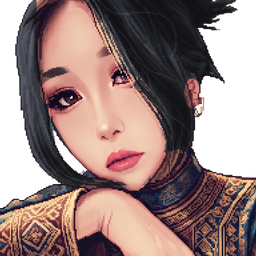
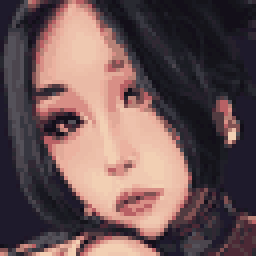
v0.57: финальный босс главы — призрак главы стражи (черновики по новому лору), портрет Алкимы в рамке, реплики не проглатываются кликами, прыжок с захлёстом целится в ближайшего врага
Claude-Session: https://claude.ai/code/session_01NZaKJV7VXAQHZfGwN3MbH5

diff --git a/src/story/dialogues.js b/src/story/dialogues.js
@@ -51,7 +51,7 @@ export const DIALOGUES = {
     { who: 'narrator', text: '[черновик] Атаман мародёров поднимается с нар и тянется к мечу.' },
   ],
 
-  // обрушенный балкон: командир стражи — последний бой первого этажа
+  // обрушенный балкон: сотник стражи — последний бой первого этажа
   commander_meet: [
     { who: 'narrator', text: '[черновик] На краю обрушенного балкона стоит скелет в позолоченных латах. Он поднимает щит.' },
   ],
@@ -94,7 +94,7 @@ export const DIALOGUES = {
   ],
   // у двери на вершину башни — конец главы 1 (черновик)
   tower_end: [
-    { who: 'knight', text: '[черновик] Наверху — тот самый скелет-колдун, о котором говорила Лика. Ну что ж.' },
+    { who: 'knight', text: '[черновик] Покои принцессы. Где-то за этой дверью — тот самый призрак, о котором говорила Лика.' },
   ],
   // перед боем в Зале стражи (черновик)
   keyguard_meet: [
@@ -175,16 +175,16 @@ export const SHOPS = {
       ] },
       { topic: 'Как выбраться из замка?', lines: [
         { mood: 'sly', text: 'Как я сюда добралась — секрет. Но простым путём отсюда не выбраться.' },
-        { mood: 'serious', text: 'Как выбраться тебе — не знаю. Знаю только, что в башне этого замка, кажется, пробудился скелет-колдун.' },
-        { mood: 'serious', text: 'Когда-то он был придворным магом здешнего короля — двести лет назад.' },
+        { mood: 'serious', text: '[черновик] Как выбраться тебе — не знаю. Знаю только, что в башне этого замка бродит призрак.' },
+        { mood: 'serious', text: '[черновик] Говорят, при жизни он был главой королевской стражи. Не уберёг принцессу — и двести лет стережёт её покои в башне. Нападает на всякого, кто туда сунется.' },
         { mood: 'sly', text: 'Это я слышала от рыцаря, который здесь бывал. Только выглядел он побогаче, и доспехи у него сияли поярче твоих...' },
         { mood: 'worried', text: '[черновик] Ой. Прости, я не имела в виду, что ты плохо выглядишь! Просто доспехи у тебя... повидавшие. Это даже солидно.' },
       ] },
-      // смысл владельца: если тот рыцарь победил колдуна и ушёл — Найт тоже сможет спокойно покинуть замок;
+      // смысл владельца: если тот рыцарь одолел хозяина башни (теперь — призрак главы стражи, v0.57) и ушёл — Найт тоже сможет спокойно покинуть замок;
       // Лика-то уйдёт когда угодно, а Найт — нет; извиняется: не хвастается, просто так вышло
       { topic: 'Что стало с тем рыцарем?', lines: [
-        { mood: 'serious', text: 'Вероятно, он уже ушёл. Или погиб от рук этого мага.' },
-        { mood: 'serious', text: '[черновик] Если он победил колдуна и ушёл — значит, и ты сможешь спокойно покинуть замок. А если погиб… тогда следующий на очереди, видимо, ты.' },
+        { mood: 'serious', text: '[черновик] Вероятно, он уже ушёл. Или погиб от руки этого призрака.' },
+        { mood: 'serious', text: '[черновик] Если он одолел призрака и ушёл — значит, и ты сможешь спокойно покинуть замок. А если погиб… тогда следующий на очереди, видимо, ты.' },
         { mood: 'sly', text: '[черновик] Я-то отсюда уйду, когда захочу. А вот ты — нет.' },
         { mood: 'worried', text: '[черновик] Ой. Прости, я не хвастаюсь. Просто… так вышло.' },
       ] },
@@ -197,7 +197,7 @@ export const SHOPS = {
       // появляется, когда у Найта ключ от башни (сундук в Зале стражи открыт)
       { topic: 'У меня ключ от башни', need: 'chest_guardhall_key', lines: [
         { knight: true, text: '[черновик] Я нашёл ключ от башни.' },
-        { mood: 'worried', text: '[черновик] Значит, ты всё-таки пойдёшь к колдуну.' },
+        { mood: 'worried', text: '[черновик] Значит, ты всё-таки пойдёшь в башню. К призраку.' },
         { mood: 'serious', text: '[черновик] Запасись зельями. Я бы на твоём месте взяла всё, что есть на прилавке. Не потому, что продаю. Ну… не только поэтому.' },
       ] },
       { topic: 'Скажи, как ты сюда попала', lines: [

diff --git a/src/config.js b/src/config.js
@@ -1,7 +1,7 @@
 // Все числа, которые влияют на ощущение боя, собраны здесь.
 // Время — в секундах, расстояния — в пикселях игрового экрана (320×180).
 
-export const VERSION = 'v0.56';
+export const VERSION = 'v0.57';
 
 export const CONFIG = {
   width: 320,
@@ -202,10 +202,10 @@ export const ENEMY_TYPES = {
     guardChance: 0.5, reaction: 0.1, noLowGuard: true,
     colors: { armor: '#8a6a48', armorDark: '#5e4630', tabard: '#6b4532', helm: '#c49a76', visor: '#14101e', blade: '#c9d2dc', hilt: '#7a5a3a', boots: '#3b2a1e', bandana: '#2e3b4a', mask: '#5e4630' },
   },
-  // скелет — командир стражи: хороший полуторный меч и щит, сражается на обрушенном балконе.
+  // скелет — сотник стражи (до v0.57 — «командир»): хороший полуторный меч и щит, сражается на обрушенном балконе.
   // Щит держит верх и середину; пробивают низом, захлёстом, контратакой после идеальной серии.
   commander: {
-    kind: 'melee', name: 'Скелет — командир стражи', shortName: 'Командир стражи', hp: 12, damage: 1, aggro: 160, reach: 34, speed: 46, lunge: 6, weapon: 19,
+    kind: 'melee', name: 'Скелет — сотник стражи', shortName: 'Сотник стражи', hp: 12, damage: 1, aggro: 160, reach: 34, speed: 46, lunge: 6, weapon: 19,
     skull: true, plate: true, shield: true, noRise: true,  // стоит на краю балкона — не встаёт из костей
     windup: 0.6, comboWindup: 0.42, gap: 0.08, recover: 0.9, wait: [0.6, 1.0],
     combos: [['high', 'mid'], ['diagDown'], ['mid', 'low', 'high'], ['heavyHigh'], ['thrust', 'diagUp'], ['low', 'low', 'high']],
@@ -494,8 +494,8 @@ export const ROOMS = {
       { x: 270, story: 'ataman', before: 'captain_meet', enemies: [{ type: 'captain', dx: 60, z: 22 }, { type: 'merc', dx: 110, z: 36 }] },
     ],
   },
-  // лестница башни: наверх — к магу
-  // за Галереей: коридор с мародёрами → столовая (чаша, лестница на второй этаж) → обрушенный балкон (тупик, командир стражи)
+  // лестница башни: наверх — покои принцессы, там призрак главы стражи
+  // за Галереей: коридор с мародёрами → столовая (чаша, лестница на второй этаж) → обрушенный балкон (тупик, сотник стражи)
   corridor: {
     name: 'Коридор', length: 900, torches: [120, 330, 540, 760],
     edges: { left: { to: 'gallery', x: 1150, name: 'Галерея' }, right: { to: 'dining', x: 30, name: 'Столовая' } },
@@ -702,17 +702,17 @@ export const ROOMS = {
       { type: 'sigil', x: 150, y: 44 }, { type: 'sigil', x: 52, y: 54 },
       { type: 'doorglow', x: 272 }, { type: 'chains', x: 110, y: 44 },
     ],
-    // последний отдых перед колдуном — сохраниться у его двери
+    // последний отдых перед боссом — сохраниться у двери покоев
     props: [{ type: 'bench', x: 210, z: 2, rest: { seat: 4, name: 'на каменной скамье', face: 1 } }],
     doors: [
       { id: 'out', x: 52, kind: 'iron', to: 'gallery', toDoor: 'tower', name: 'Галерея' },
-      // за дверью — маг (финальный босс, решение владельца: пока не делаем) — здесь конец главы 1
-      { id: 'up', x: 272, kind: 'wood', name: 'Вершина башни', finish: true, finishTalk: 'tower_end',
-        finishTitle: 'Конец главы 1 (черновик)', finishText: 'За дверью — вершина башни и скелет-колдун. Его сделаем дальше.' },
+      // за дверью — покои принцессы и призрак главы королевской стражи (финальный босс главы 1, решение владельца v0.57; маг — позже)
+      { id: 'up', x: 272, kind: 'wood', name: 'Покои принцессы', finish: true, finishTalk: 'tower_end',
+        finishTitle: 'Конец главы 1 (черновик)', finishText: 'За дверью — покои принцессы и призрак главы стражи. Его сделаем дальше.' },
     ],
   },
   mage: {
-    name: 'Вершина башни', length: 480, columns: false, torches: [100, 240, 380], magic: true,
+    name: 'Покои принцессы', length: 480, columns: false, torches: [100, 240, 380], magic: true,
     doors: [{ id: 'in', x: 56, kind: 'wood', to: 'tower', toDoor: 'up', name: 'Лестница башни', oneWay: true }],  // маг — потом; сюда пока не попасть
   },
 };

diff --git a/src/main.js b/src/main.js
@@ -1605,9 +1605,10 @@ function updateCharge() {
   }
   if (heldFor < WEAPONS.rapier.chargeTime) return;
   game.charge = null;
-  const cur = game.current?.alive ? game.current : null;
-  const target = cur && Math.abs(cur.x - p.x) < 70 && Math.sign(cur.x - p.x) === p.facing ? cur.x : p.x + p.facing * 44;
-  if (!p.requestVault(target)) {
+  // цель — ближайший враг впереди на линии рыцаря; нет такого — прыжок вперёд без разворота
+  const ahead = game.enemies.filter(e => e.alive && near(p, e) && (e.x - p.x) * p.facing > 0 && Math.abs(e.x - p.x) < 90);
+  const cur = ahead.sort((a, b) => Math.abs(a.x - p.x) - Math.abs(b.x - p.x))[0];
+  if (!p.requestVault(cur ? cur.x : p.x + p.facing * 44, !!cur)) {
     callout('Прыжок не готов', 'muted');
     p.requestAttack('up', false);
   }
@@ -2087,6 +2088,8 @@ const FACES = {
     .map(m => [m, m === 'default' ? 'assets/portraits/lika.png' : `assets/portraits/lika-${m}.png`])),
 };
 for (const set of Object.values(FACES)) for (const src of Object.values(set)) new Image().src = src;  // загрузить заранее
+// портреты-крупные планы (обрезаны краем исходной картинки) — в рамке со своим фоном
+const FRAMED = new Set(['trainer']);
 
 const PORTRAITS = {
   knight: { colors: KNIGHT_COLORS, plume: true },
@@ -2124,6 +2127,7 @@ function showLine() {
   ui.talkName.textContent = who.name;
   const face = FACES[who.portrait];
   ui.talkFace.hidden = !face;
+  ui.talkFace.classList.toggle('framed', FRAMED.has(who.portrait));
   if (face) {
     const src = face[line.mood] ?? face.default;
     if (!ui.talkFace.src.endsWith(src)) ui.talkFace.src = src;
@@ -2136,6 +2140,7 @@ function showLine() {
     drawFigure(portraitCtx, { x: 7, ground: 40, facing: 1, pose: POSES.idle, bladeHidden: true, ...PORTRAITS[who.portrait] });
   }
   game.talkShown = 0;
+  game.lineAt = performance.now();
   ui.talkText.textContent = '';
   ui.talkChoices.innerHTML = '';
   ui.talkNext.hidden = !!line.choices;
@@ -2160,9 +2165,13 @@ function tickTalk(dt) {
   }
 }
 
+// новая реплика не пролистывается сразу: клики, которыми только что били, не съедают текст
+const TALK_GUARD = 350;
+
 function advanceTalk() {
   const line = game.talk?.current;
   if (!line) return;
+  if (performance.now() - (game.lineAt ?? 0) < TALK_GUARD) return;
   if (line.choices) return;
   if (line.text && game.talkShown < line.text.length) {
     game.talkShown = line.text.length;
@@ -2176,6 +2185,7 @@ function advanceTalk() {
 function chooseTalk(i) {
   const line = game.talk?.current;
   if (!line?.choices?.[i]) return;
+  if (performance.now() - (game.lineAt ?? 0) < TALK_GUARD) return;
   game.talk.choose(i);
   showLine();
 }

diff --git a/style.css b/style.css
@@ -160,6 +160,7 @@ kbd {
 /* портрет без фона: вырезанный персонаж стоит прямо в окне диалога */
 .talk-face { width: 19cqw; height: 19cqw; flex: none; object-fit: contain; margin: -6cqw 0 -1.6cqw -1cqw; align-self: flex-end; filter: drop-shadow(0 0.4cqw 0 rgba(0,0,0,0.5)); }
 .talk-face[hidden] { display: none; }
+.talk-face.framed { width: 15cqw; height: 15cqw; margin: 0 0.4cqw 0 0; align-self: center; background: #1e1a2b; border: 0.3cqw solid var(--line); image-rendering: pixelated; filter: none; }
 .talk-body { display: grid; gap: 0.8cqw; min-width: 0; flex: 1; }
 .talk-name { font-family: var(--pixel); font-size: 2.2cqw; color: var(--gold); }
 .talk-text { margin: 0; font-size: 2.3cqw; line-height: 1.45; color: var(--fg); min-height: 3.3cqw; }
@@ -237,6 +238,7 @@ img.shop-portrait { image-rendering: auto; object-fit: contain; background: none
 .shop-menu button.sel { border-color: var(--gold); color: var(--gold); }
 /* на титульном экране HUD не нужен */
 #game-box:has(.overlay.title:not([hidden])) .hud { visibility: hidden; }
+#game-box:has(.talk:not([hidden])) .hint { visibility: hidden; }  /* подсказка не просвечивает сквозь окно разговора */
 
 /* карта открыта — HUD поверх пергамента не нужен */
 .mapping .hud { visibility: hidden; }

diff --git a/src/player.js b/src/player.js
@@ -154,11 +154,12 @@ export class Player {
   }
 
   // Рапира: прыжок через врага (на targetX) и захлёст сзади. false — ещё перезаряжается.
-  requestVault(targetX) {
+  requestVault(targetX, turn = true) {
     if (this.weapon !== 'rapier' || this.clock < this.vaultReadyAt || this.state !== 'ready') return false;
     this.startAttack('vaultFlick');
     this.atk.from = this.x;
     this.atk.to = targetX + this.facing * 22;
+    this.atk.turn = turn;
     this.vaultReadyAt = this.clock + this.arms.vaultCooldown;
     return true;
   }
@@ -271,7 +272,7 @@ export class Player {
           } else if (!a.turned) {
             a.turned = true;
             this.airY = 0;
-            this.facing = -this.facing;
+            if (a.turn) this.facing = -this.facing;
           }
         }
         if (t < a.windup) {

diff --git a/src/story/bestiary.js b/src/story/bestiary.js
@@ -70,6 +70,6 @@ export const BESTIARY = {
   commander: {
     how: 'Хороший полуторный меч и щит. Щит держит верх и середину; диагонали и тяжёлый удар сверху сбивают блок.',
     win: 'Низом, захлёстом рапиры или контратакой после идеальной серии.',
-    lore: '[черновик] Командир стражи. Охраняет балкон, с которого некуда идти.',
+    lore: '[черновик] Сотник королевской стражи. Охраняет балкон, с которого некуда идти. Его начальник, говорят, до сих пор бродит по башне.',
   },
 };

diff --git a/docs/story.md b/docs/story.md
@@ -30,7 +30,7 @@
 - Странствующая торговка и коллекционер: собирает интересные артефакты в заброшенных местах. Не мародёр — не обирает павших и не расхищает гробниц, собирает то, что никто не удосужился поискать.
 - Характер: шутливая, с первого взгляда кажется наглой или несерьёзной; яркая, эмоциональная, ехидная, в глазах хитрость и сарказм. Намерения не злые: часто извиняется, если шутка вышла обидной.
 - Как попала в замок — секрет: контракт с тем, кто дал ей этот способ.
-- Знает: замок пуст больше 200 лет; рядом деревушка; в башне пробудился скелет-колдун — придворный маг короля 200 лет назад (слышала от рыцаря «побогаче, в сияющих доспехах» — ушёл или погиб).
+- Знает: замок пуст больше 200 лет; рядом деревушка; в башне бродит призрак главы королевской стражи (v0.57; раньше — скелет-колдун) (слышала от рыцаря «побогаче, в сияющих доспехах» — ушёл или погиб).
 
 ### Лика — торговка
 - Невысокая молодая девушка, азиатка. По портрету владельца: длинные чёрные волосы ниже плеч, чёлка прядями падает на глаза, хитрая улыбка, оливковый плащ с высоким воротом на пуговицах. (Первоначально — каре и тёмный плащ; владельцу больше понравился портрет.)
@@ -39,7 +39,9 @@
 ## Глава 1 — замок
 
 - Три этажа. Ключ от башни — не раньше третьего этажа. Выше третьего проход завален камнями.
-- С третьего этажа — дыра вниз (быстрый спуск). Внизу — дверь в башню, в башне — маг: скелет-колдун, придворный маг короля 200 лет назад (финальный босс главы).
+- С третьего этажа — дыра вниз (быстрый спуск). Внизу — дверь в башню, наверху башни — **покои принцессы**.
+- **Финальный босс главы — призрак главы королевской стражи** (решение владельца, v0.57). При жизни он должен был защитить принцессу — и не сумел. Двести лет его призрак бродит по замку и стережёт её покои в башне, нападает на всякого, кто посмеет нарушить их покой. Слухи о нём ходят по замку (Лика, осмотр). Маг — позже, не в главе 1.
+- Владелец хочет **больше Темницу, больше комнат, вещей, возможно оружия и брони** — глава 1 растёт.
 - Первый этаж заканчивается обрушенным балконом-тупиком с видом на долину и деревню (туда — во второй локации).
 
 ## Каркас главы 1 — заполни (v0.56)
@@ -54,8 +56,8 @@
 
 ### Сначала ответь на вопросы (без них сцены не написать)
 1. Кто Найт и зачем отмечает порталы? Что он хочет лично?
-2. Где портал этого замка? (Логично: в башне, его держит маг — тогда цель главы ясна с первой сцены.)
-3. Чего хочет маг-скелет и при чём тут портал?
+2. Где портал этого замка? (Логично: в покоях принцессы — его стережёт призрак, тогда цель главы ясна с первой сцены.)
+3. Призрак: что стало с принцессой? Почему он не уберёг её? Что он хочет (покой, прощение, найти её)? При чём тут портал?
 4. Что ищет Алкима в замке? Встретимся ли с ней в главе 1 ещё раз (например, у башни)?
 5. Илиа: почему он здесь, почему бежит после поражения, вернётся ли в главе 1?
 6. Тон: мрачный, сказочный, ироничный — или смесь (например, мрачный мир + ирония Лики)?
@@ -71,18 +73,18 @@
 | 2 | Выход из камеры (0:30) | Алкима, Найт | Знакомы ли они, зачем она тут, предложение размяться | 5–7 | `trainer_meet` |
 | 3 | Обучение (1:00–4:00) | Алкима | 7 шагов — **механику не трогать**, можно переписать её голосом | по 1 на шаг | `src/tutorial.js` |
 | 4 | Конец обучения / пропуск | Алкима | Уходит по своим делам, намёк на её цель | 2–3 | `trainer_done`, `trainer_skip` |
-| 5 | Лавка Лики, первый визит (≈ 6:00) | Лика | Приветствие; темы — лор замка, маг, прежний рыцарь | 1 + темы по 2–4 | `SHOPS.lika` |
+| 5 | Лавка Лики, первый визит (≈ 6:00) | Лика | Приветствие; темы — лор замка, слухи о призраке, прежний рыцарь | 1 + темы по 2–4 | `SHOPS.lika` |
 | 6 | Илиа замечает Найта (≈ 8:00) | Илиа | Принимает за монстра — коротко, сразу бой | 1–3 | нет — новая `ilia_meet` |
 | 7 | Илиа повержен | Илиа, Найт | Почему уходит, крючок на возвращение | 3–4 | `ilia_defeat` |
 | 8 | Казарма, атаман (≈ 11:00) | Атаман | Мародёры — кто они тут | 1–2 | `captain_meet` |
 | 9 | Балкон, командир (≈ 13:00) | Командир | Стража служит до сих пор? | 1–2 | `commander_meet` |
 | 10 | Балкон после боя | Найт | Вид на деревню (крючок на главу 2), путь наверх | 2–3 | `balcony_after` |
-| 11 | Этаж 2 (14:00–19:00) | осмотр по E | Обрывки истории замка и мага: книга, портреты, алтарь | по 1–2, необязательно | `look_*` |
+| 11 | Этаж 2 (14:00–19:00) | осмотр по E | Обрывки истории замка, принцессы и стражи: книга, портреты, алтарь | по 1–2, необязательно | `look_*` |
 | 12 | Этаж 3, Зал стражи (≈ 21:00) | Страж | Ключ от башни охраняют — кто и зачем | 1–2 | `keyguard_meet` |
-| 13 | Дверь на вершину башни (≈ 23:00) | Найт | Пауза перед боссом | 1 | `tower_end` |
-| 14 | Маг перед боем | Маг, Найт | Кто он, чего хочет, связь с порталом | 3–5 | нет — `mage_meet` |
-| 15 | Маг повержен, финал главы (≈ 25:00) | Маг / Найт | Портал отмечен, ответ на вопрос 2–3, крючок на главу 2 | 5–8 | нет — `chapter_end` |
-| — | Лика, новые темы после событий | Лика | Реакция на Илиа, ключ, мага | по 2–4, необязательно | частично есть |
+| 13 | Дверь в покои принцессы (≈ 23:00) | Найт | Пауза перед боссом | 1 | `tower_end` |
+| 14 | Призрак перед боем | Призрак, Найт | Кто он, кого стережёт, связь с порталом | 3–5 | нет — `ghost_meet` |
+| 15 | Призрак повержен, финал главы (≈ 25:00) | Призрак / Найт | Портал отмечен, ответ на вопрос 2–3, крючок на главу 2 | 5–8 | нет — `chapter_end` |
+| — | Лика, новые темы после событий | Лика | Реакция на Илиа, ключ, призрака | по 2–4, необязательно | частично есть |
 
 Сюжетных реплик (без Лики и осмотра) получается ≈ 40–55 — это и есть ≈ 3–4 минуты.
 

diff --git a/docs/owner-todo.md b/docs/owner-todo.md
@@ -6,20 +6,20 @@
 
 Графику рисуем, когда механика зафиксирована. Не хватает:
 
-1. **Маг — финальный бой главы.** Самая большая дыра: у главы нет конца. Нужно от тебя: как дерётся (магия по высотам? призывает скелетов? фазы?) — хватит 3–5 строк идей, остальное предложу.
+1. **Призрак главы стражи — финальный бой главы** (твоё решение v0.57, маг — позже). У главы пока нет конца. Моё предложение — в ответе в чате; скажи, что оставить.
 2. **Сложность** — решение ниже, в разделе «Сложность».
 3. **Покои на втором этаже** — запертая дверь без содержимого: босс, ключ, тайник — или убрать.
 4. **Лика на 2–3 этажах, Чаша и Золотой череп** — нужны ли для прохода (вопросы 4–5 внизу).
 5. **Список врагов — заморозить.** Сейчас 15 видов. Каждый вид — свой лист спрайтов 32×32 (стойка, шаг, замахи на трёх высотах, удар, оглушение, смерть — ≈ 10–15 кадров). Мой совет: на главу 1 оставить 8–10, остальных — в следующие локации.
 6. **Открытые вопросы в `docs/design.md`** (финты, выносливость, третье оружие, рогалик) — ответить «да» или «нет, не в этой игре». Каждое «да» добавляет анимации.
-7. **Длина игры.** В `docs/design.md` записано: вся игра — 30–60 минут, 4–5 локаций, то есть ≈ 10 минут на локацию. Глава 1 уже ≈ 20–30 минут без мага и сюжета. Нужно выбрать: игра длиннее (≈ 2 часа) или глава 1 короче. Мой совет — оставить главу ≈ 25 минут и к Новому году целиться в **главу 1 с графикой**, а не во все локации.
+7. **Длина игры.** В `docs/design.md` записано: вся игра — 30–60 минут, 4–5 локаций, то есть ≈ 10 минут на локацию. Глава 1 уже ≈ 20–30 минут без босса и сюжета. Ты решил делать её **больше** (Темница, комнаты, вещи, оружие, броня) — значит, игра длиннее 30–60 минут. Поправлю цифру в дизайне, когда скажешь, сколько глав. Совет прежний: к Новому году целиться в **главу 1 с графикой**.
 
 Проверить время прохождения: на экране «Конец главы» показано время в игре — пройди с нуля, как новичок, и пришли цифру.
 
 ## Тексты
 
 - **Разговоры Лики** (`src/story/dialogues.js`, `SHOPS.lika.talk`). Большинство — твои, но часть строк — мои черновики (`[черновик]`). Перечитать особенно:
-  - «Что стало с тем рыцарем?» — переписано по твоему смыслу (v0.32): если тот рыцарь победил колдуна и ушёл — Найт тоже сможет уйти; «я-то уйду, а ты — нет», извиняется: не хвастается, так вышло.
+  - «Что стало с тем рыцарем?» — переписано по твоему смыслу (v0.32): если тот рыцарь одолел призрака (раньше — колдуна) и ушёл — Найт тоже сможет уйти; «я-то уйду, а ты — нет», извиняется: не хвастается, так вышло.
   - «Я встретил рыцаря с рапирой» — новая тема, появляется после боя с Илиа.
   - Приветствие, «спасибо», «не хватает монет», описания товаров.
 - **Мысли Найта при осмотре** (E у портретов, камина, ключей и т. д., `look_*`) — все черновики.
@@ -48,7 +48,7 @@
 - Ключ от башни — в **Зале стражи** на третьем этаже, после тяжёлого боя (двуручник, алебардист, арбалетчик). Кто должен его охранять — может, особый страж или босс? Пока — обычная стража.
 - **Пролом в полу** Северного крыла — спрыгиваешь прямо к двери башни на первом этаже.
 - Лестница выше третьего этажа **завалена**.
-- Конец главы 1 — у двери на вершину башни («там скелет-колдун»).
+- Конец главы 1 — у двери в покои принцессы («там призрак главы стражи»).
 
 ## Сложность — твоё решение
 

diff --git a/docs/design.md b/docs/design.md
@@ -108,6 +108,13 @@
 - Колесо — «восьмёрка» перед собой: три слабых удара и блок от всего лёгкого (стрелы, короткие и длинные мечи). Тяжёлые и диагональные удары она не держит. Перезарядка общая с вихрем — 4 с.
 - В отчёт тестера добавлены рипосты, блоки восьмёркой и прыжки (сколько попали).
 
+## v0.57: призрак главы стражи вместо мага, портрет Алкимы в рамке, текст не проглатывается
+
+- **Сюжет (владелец):** финальный босс главы 1 — не маг, а **призрак главы королевской стражи**: не сумел защитить принцессу, двести лет стережёт её покои в башне. Черновики переписаны: темы Лики («Как выбраться», «Что стало с тем рыцарем», «У меня ключ»), мысль у двери, итоговый экран; дверь и комната наверху — «Покои принцессы». Командир на балконе стал **сотником стражи** — глава стражи теперь призрак. Маг — позже.
+- **Портрет Алкимы:** крупный пиксель (64×64, 30 цветов, как у остальных), кадр на лицо, и в рамке со своим фоном (`FRAMED` в `src/main.js`, класс `framed`): исходник — крупный план с обрезанной макушкой, без рамки это смотрелось странно.
+- **Диалоги:** новая реплика 0,35 с не пролистывается (`TALK_GUARD`) — клики ЛКМ, которыми только что били (например, Илиа после последнего удара), больше не проглатывают строки. Подсказка управления больше не просвечивает сквозь окно разговора.
+- **Прыжок с захлёстом** (отчёт v0.56: 4 прыжка, 0 попаданий): цель — ближайший враг впереди на линии рыцаря до 90 px, а не только тот, чья очередь бить, и только до 70 px. Без цели рыцарь прыгает вперёд и не разворачивается (раньше приземлялся перед врагом и бил воздух за спиной).
+
 ## v0.56: рапира снова выпадает, переход по лестнице
 
 - Баг (с v0.32): после победы над Илиа рапира не выпадала — при правке «второй рапиры не будет» пропала строка, которая кладёт её на пол. Вернул. Сохранения, где Илиа побеждён, а рапиры нет, чинятся при загрузке: рапира в сумке.
@@ -288,7 +295,7 @@
 - Замок — **три этажа**. Ключ от башни — **не раньше третьего этажа**. Выше третьего проход завален камнями (сюжетно: выше не пойти).
 - С третьего этажа — **дыра вниз**, быстрый спуск между этажами. Внизу рыцарь открывает дверь башни, идёт по башне — там **маг** (финальный босс главы). Мага пока не делаем.
 
-## Решение владельца: маг — финальный босс
+## Решение владельца: маг — финальный босс (v0.57: заменён призраком главы стражи, маг — позже)
 
 - Маг на вершине башни — **финальный босс**, за дверью с ключом. Ключ от башни будет на **втором или третьем этаже** (всего, вероятно, три этажа). Пока мага не делаем.
 - Из сундука в Казарме убран ключ — теперь там 25 монет. Дверь в башню в Галерее заперта.

diff --git a/CLAUDE.md b/CLAUDE.md
@@ -39,7 +39,7 @@ npm start    # python3 -m http.server 8080 → http://localhost:8080
 - Места отдыха — `rest` у пропа или убранства (диван, камин, скамья): сесть, лечение, сохранение; «продолжить» — с последнего (`flags.restAt`).
 - Сюжетные бои — `story` у встречи (не респавнятся, победа — флаг `done_<имя>`). Дверь `needs` — появляется после флага; `requires` — заперта до флага; `finish` — конец демо (`finishTitle`).
 - Второй этаж (черновик Claude, ждёт лор владельца): `landing2`, `hall2`, `library` (+ тайная `reading`), `chapel`, `vestry`, `stairs3`.
-- Третий этаж (по плану владельца): `landing3`, `hall3` (пролом `fall` вниз к башне, завал наверху), `guardhall` (ключ от башни). Башня → дверь наверх — конец главы 1; маг (`mage`) не сделан, туда не попасть.
+- Третий этаж (по плану владельца): `landing3`, `hall3` (пролом `fall` вниз к башне, завал наверху), `guardhall` (ключ от башни). Башня → дверь наверх (покои принцессы) — конец главы 1; финальный босс — призрак главы королевской стражи (решение владельца v0.57, маг — позже), не сделан; комната `mage` («Покои принцессы») недоступна.
 - Двери: `fall` — прыжок в пролом (падение, другая комната); `oneWay` — без обратной двери (тест это учитывает); `stairs` — лестница: шаг и затемнение, без проёма в стене (решение владельца).
 - `docs/owner-todo.md` — напоминания владельцу (тексты перечитать, картинки, вопросы по лору). Пополнять, когда что-то ждёт владельца.
 - `tools/lika_moods.py` — как подгонялись настроения Лики под оригинал (уже применено).

diff --git a/README.md b/README.md
@@ -1,6 +1,6 @@
 # Knight Night
 
-Пиксельное приключение про рыцаря, который парирует удары по высоте: сверху, по корпусу, снизу. Сейчас — прототип на фигурах, нарисованных кодом: глава 1 (заброшенный замок, три этажа) проходится от камеры с порталом до двери скелета-колдуна; сам колдун будет позже.
+Пиксельное приключение про рыцаря, который парирует удары по высоте: сверху, по корпусу, снизу. Сейчас — прототип на фигурах, нарисованных кодом: глава 1 (заброшенный замок, три этажа) проходится от камеры с порталом до двери в покои принцессы; финальный босс — призрак главы стражи — будет позже.
 
 ## Как запустить
 
